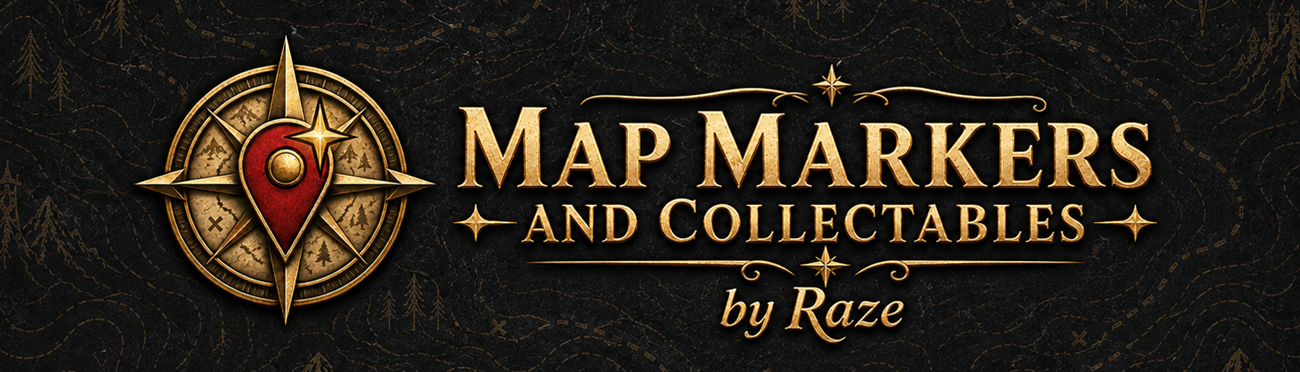
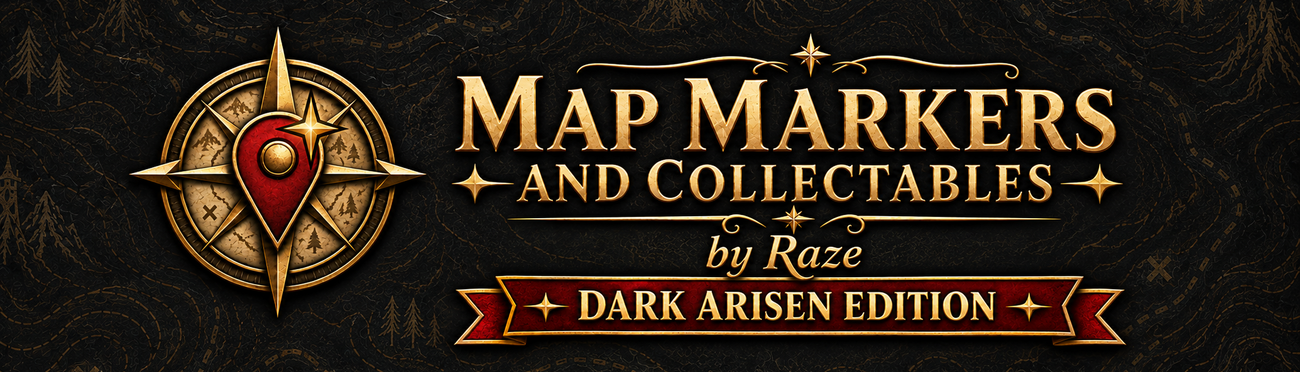
Update v1.5 artwork for Dark Arisen Edition

diff --git a/docs/dark-arisen-edition-artwork-prompts.md b/docs/dark-arisen-edition-artwork-prompts.md
@@ -1,0 +1,38 @@
+# Dark Arisen Edition artwork prompts
+
+The v1.5 Nexus thumbnail and banner use the existing charcoal-map, gold-compass and red-pin branding with a matching red-and-gold edition ribbon.
+
+## Final files
+
+- `nexus-upload/1.5/images/logo.png`: 1536 x 1024 pixels.
+- `nexus-upload/1.5/images/banner.png`: 1300 x 372 pixels.
+
+The listing already points to these files. The earlier release artwork is preserved. The banner export crops background only from the 2069 x 760 output: left 0, top 52, width 2069, height 592, then scales proportionally to 1300 x 372. The full-size banner, a 650 x 186 preview and a 320 x 213 thumbnail preview were checked for complete framing and legible edition text.
+
+## Thumbnail: initial ribbon edit
+
+Edit target: the existing Nexus thumbnail. This first pass introduced the ribbon; the following pass supplies the final wording.
+
+Edit the supplied image as the target: the existing Nexus Mods thumbnail for Map Markers and Collectables by Raze. Keep its landscape 3:2 canvas, charcoal fantasy-map backdrop, antique-gold compass, red map pin, treasure sparkle and engraved gold lettering. Preserve all existing text verbatim: "MAP MARKERS", "AND COLLECTABLES", "by Raze". COLLECTABLES is spelled C O L L E C T A B L E S. Add a prominent, elegant deep-red ribbon with a restrained antique-gold border centered along the bottom, bearing exactly "DARK ARISEN SUPPORT" in bold, highly legible uppercase gold lettering. This support message must remain readable when the image is reduced to a small mod thumbnail. Make only modest layout adjustments to fit the ribbon: slightly tighten the existing vertical spacing or scale the existing composition proportionally, with safe margins and no cropped compass tips or lettering. Keep the original branding recognizable and the title prominent. No extra words, official game logos, screenshots, characters, watermarks or mockup surroundings. Return one finished opaque raster thumbnail.
+
+## Thumbnail: final wording
+
+Edit target: the initial ribbon edit above.
+
+Edit this thumbnail with one precise text change only. On the bottom red-and-gold ribbon, replace "DARK ARISEN SUPPORT" with exactly "DARK ARISEN EDITION". Match the same engraved gold uppercase font, scale, centered alignment and spacing. Preserve everything else: the 3:2 landscape composition, compass and red map-pin emblem, gold decorative stars, map background, ribbon shape, and all other text verbatim ("MAP MARKERS", "AND COLLECTABLES", "by Raze"). COLLECTABLES uses an A. No additional words, no watermark, no new objects, no cropping or layout redesign. Keep the image opaque.
+
+## Banner: matching edition ribbon
+
+Image 1: the existing wide Nexus banner, as the edit target. Image 2: the final thumbnail above, as the ribbon style reference.
+
+Use case: text-localization.
+Asset type: Nexus Mods page banner, final export 1300 x 372 pixels.
+Input images: Image 1 is the existing wide banner to edit. Image 2 is the updated thumbnail, provided only as the style reference for its red-and-gold DARK ARISEN EDITION ribbon.
+Primary request: update Image 1 to match the thumbnail by adding a tasteful red ribbon with engraved gold uppercase text exactly "DARK ARISEN EDITION" beneath the title on the right side.
+
+Preserve the original wide composition: complete gold compass and red map pin on the left, large two-line gold title on the right, dark charcoal cartography background, decorative gold stars and flourishes. Preserve the emblem design and the existing title lettering as closely as possible. The only text is "MAP MARKERS", "AND COLLECTABLES", "by Raze", and "DARK ARISEN EDITION". COLLECTABLES is spelled with A: C O L L E C T A B L E S.
+
+Make room with a small vertical repositioning of the right-hand text block: main title at the top, second title line below, a readable smaller "by Raze", then the new compact ribbon. Match the ribbon's red material, fine gold border, serif lettering, and restrained end folds to Image 2. Keep the ribbon entirely in the right-hand title area without overlapping the compass or any text. The edition text must remain clearly legible at 1300 x 372 and at half size.
+
+Critical framing: this is a very shallow 3.495:1 horizontal banner. Keep ALL foreground elements, including the compass tips, lettering, ribbon folds, and decorations, inside a centered horizontal strip whose height is no more than 26% of the total image width. Leave modest clear margins inside this strip and at the left and right edges. If a taller output canvas is required, the areas above and below this central strip must contain ONLY uninterrupted dark map background so the artwork can be cropped to 1300:372 without losing anything. Do not squash or distort the compass or lettering. Do not use the stacked thumbnail layout.
+No new objects, additional words, official game logos, screenshots, interface, or watermark. Opaque background.
